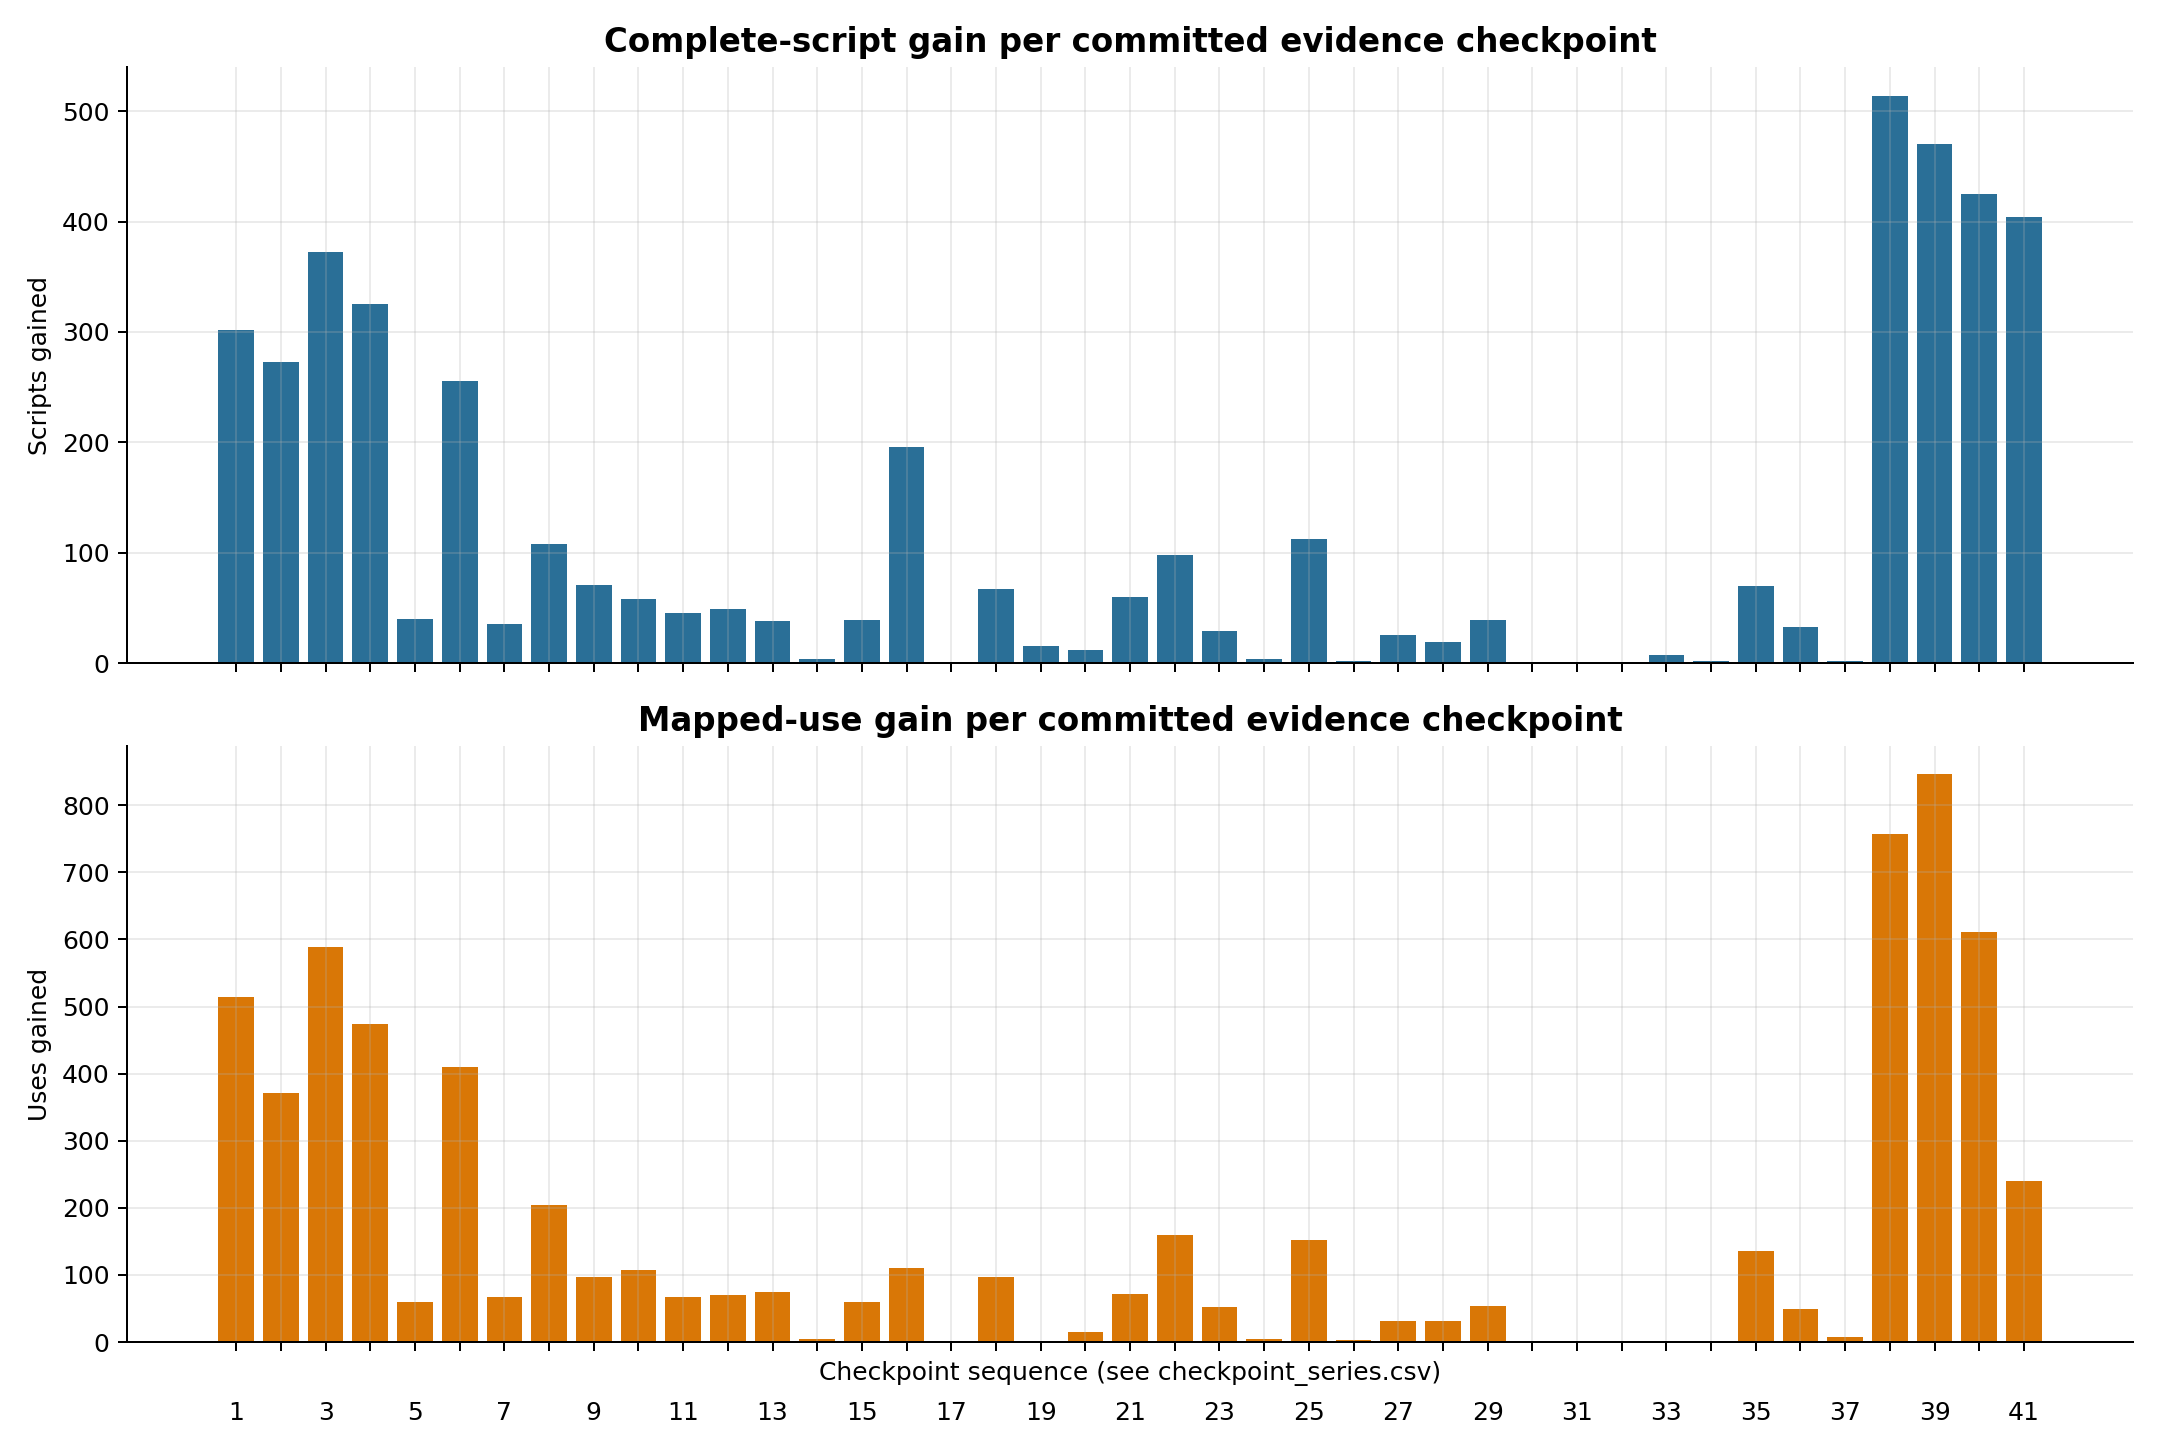
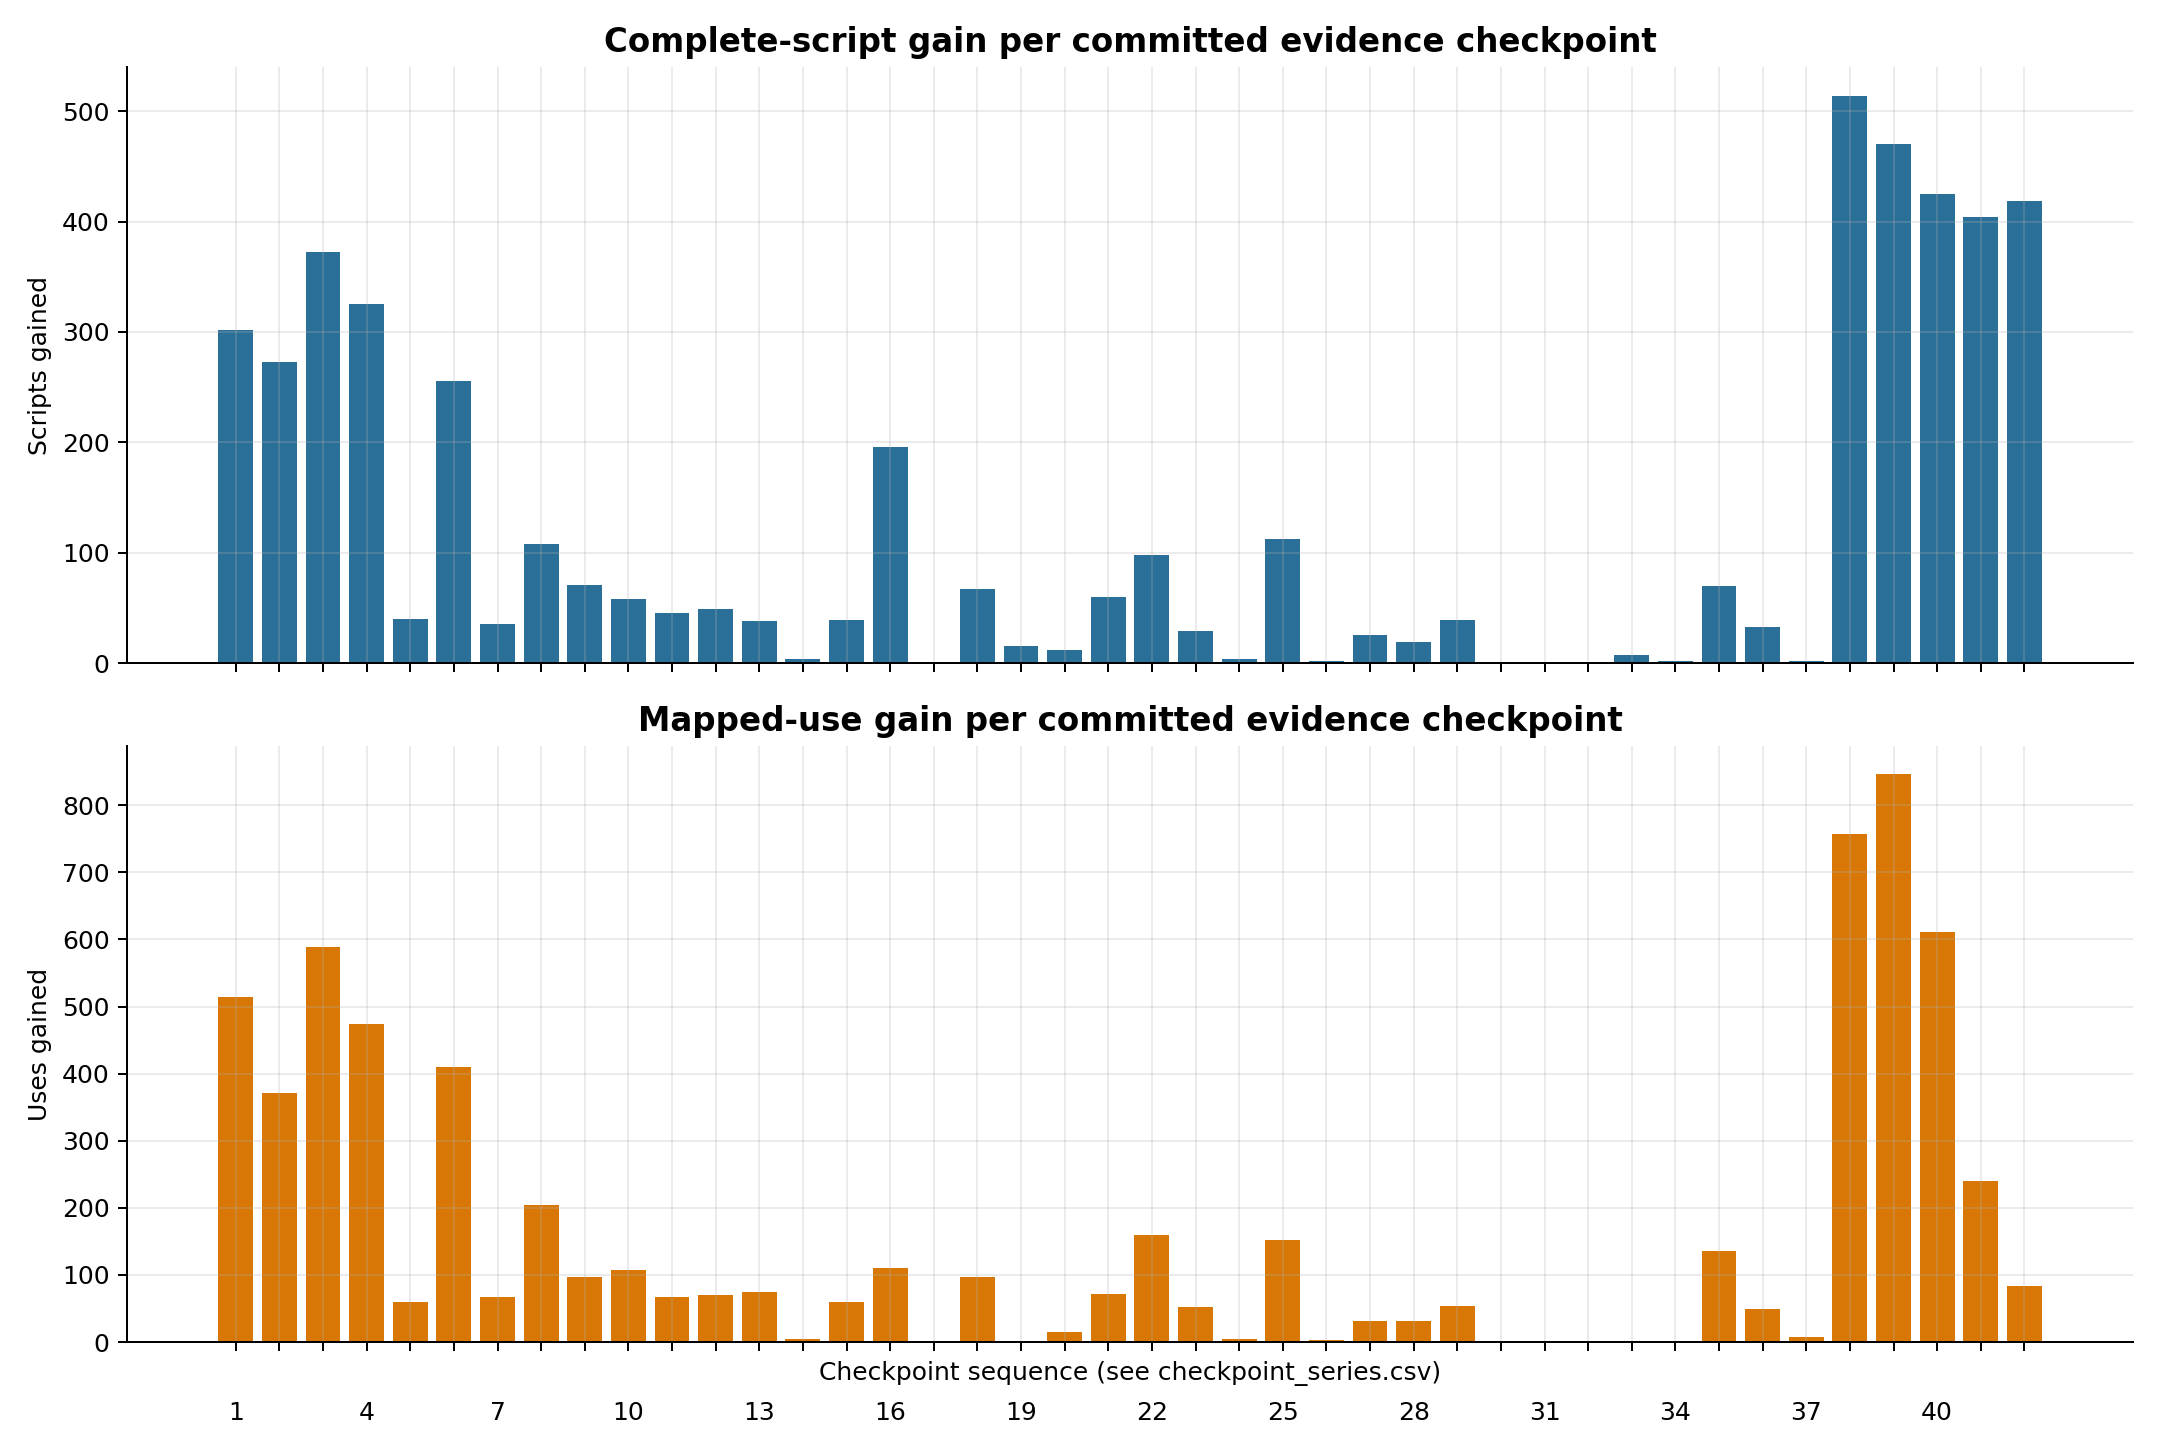
docs: update T3.3 coverage progress report

diff --git a/reports/progress/t3.3-script-coverage-2026-07-12/REPORT.md b/reports/progress/t3.3-script-coverage-2026-07-12/REPORT.md
@@ -4,21 +4,21 @@ Generated from committed local `reports/gates/T3.3` evidence and local git histo
 
 ## Snapshot
 
-- Latest committed checkpoint: **13,368/33,290 complete scripts (40.16%)**.
-- Mapped ability uses: **22,164/43,649 (50.78%)**.
+- Latest committed checkpoint: **13,787/33,290 complete scripts (41.41%)**.
+- Mapped ability uses: **22,247/43,649 (50.97%)**.
 - Owner-priority scripts complete: **200/365**.
-- Across this evidence series: **+4,366 complete scripts** and **+6,144 mapped uses** over 41 monotonic committed checkpoints.
-- T3.3 60% floor remaining: **6,606 scripts**.
-- Mechanical 100% remaining: **19,922 scripts**.
+- Across this evidence series: **+4,785 complete scripts** and **+6,227 mapped uses** over 42 monotonic committed checkpoints.
+- T3.3 60% floor remaining: **6,187 scripts**.
+- Mechanical 100% remaining: **19,503 scripts**.
 
 ## Projection
 
-The recent campaign median is **836 complete scripts/hour** across the latest campaign intervals; the whole-series wall-clock rate is **159/hour**. Linear projection gives:
+The recent campaign median is **878 complete scripts/hour** across the latest campaign intervals; the whole-series wall-clock rate is **171/hour**. Linear projection gives:
 
 | Target | Recent campaign rate | Whole-history wall-clock rate |
 |---|---:|---:|
-| 60% T3.3 floor | 7.9 h | 41.6 h |
-| 100% mechanical coverage | 23.8 h | 125.6 h |
+| 60% T3.3 floor | 7.0 h | 36.2 h |
+| 100% mechanical coverage | 22.2 h | 114.1 h |
 
 These are trend scenarios, not delivery promises. The recent rate assumes compatible high-yield families remain available and work continues in dense batches. The historical rate includes inactive gaps and small experimental batches. The 100% estimate is especially optimistic because the tail shifts toward linked abilities, open selectors, unsupported values, replacement effects, and rules requiring new semantic design; actual time can be several times the linear estimate, and some items may appropriately remain quarantined until later runtime work.
 